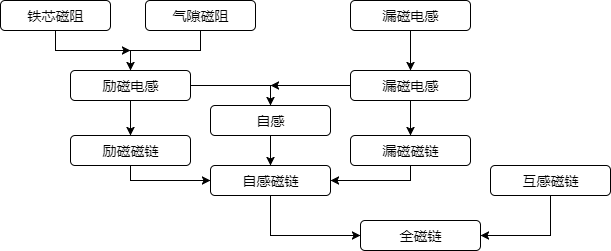
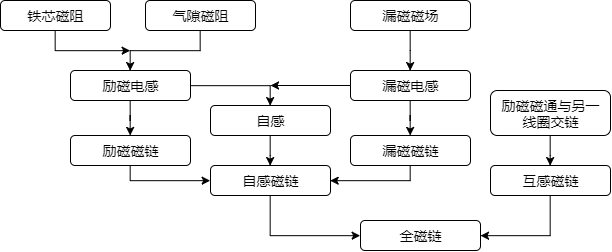
20170717 - add posts

diff --git a/source/_drafts/电机控制之电磁基础.md b/source/_drafts/电机控制之电磁基础.md
@@ -81,7 +81,7 @@ f_A &= {B_m \over {\mu}_{Fe}} l_m + {B_{\delta} \over {\mu}_0} {\delta} \\
 $$
 
 式中，${\phi}_{mA}$为铁芯磁路主磁通，$R_m = {l_m \over {\mu}_{Fe}S}$为铁芯磁路磁阻；${\phi}_{\delta}$为气隙磁通，$R_{\delta} = {\delta \over {\mu}_{0}S}$为气隙磁路磁阻。
-由于磁通的连续性，所有 ${\phi}_{mA} = {\phi}_{\delta}$，即有 $B_m = B_{\delta}$。从而 ${\eqref {1-5}}$ 可以表示为：
+由于磁通的连续性，所有 ${\phi}_{mA} = {\phi}_{\delta}$，即有 $B_m = B_{\delta}$。从而式${\eqref {1-5}}$ 可以表示为：
 
 $$
 \begin{split} 
@@ -97,7 +97,7 @@ $$
 <span id = "图1-2"></span>
 > ![图1-2 等效磁路图](1-02.png)
 
-将${\eqref {1-6}}$进行变形，得到：
+将式${\eqref {1-6}}$进行变形，得到：
 
 $$
 \begin{split} 
@@ -209,7 +209,7 @@ $$
 L_{BA} = {\psi_{mBA} \over i_A} = N_A N_B \Lambda_\delta
 {\tag {1-15}} {\label {1-15}}
 $$
-
+并且，当两绕组匝数相等时，则励磁电感与互感也相等，即 $ L_{mA} = L_{mB} = L_{AB} = L_{BA}$。
 即有线圈 $A$ 和 $B$ 的互感相等。线圈的全磁链为自感磁链和互感磁链之和，则全磁链为：
 
 $$
@@ -230,36 +230,153 @@ $$
 ---
 # 定子与转子模型
 
+## 电磁转矩和磁阻转矩
 
+将[图1-1](#图1-1)的电磁装置，只能进行电能和磁能的转换。为了将磁能转化成机械能，现在将该装电磁装置改成如[图2-1](#图2-1)所示的，具有定、转子绕组和气隙的机电装置。线圈 $B$ 嵌入转子槽中，成为转子绕组，线圈 $A$ 嵌入定子槽中，成为定子绕组。假设定、转子绕组匝数相同（$N_A = N_B$），忽略定、转子齿槽影响，且忽略定、转子铁芯磁阻，气隙是均匀的。
+
+<span id = "图2-1"></span>
+> ![图2-1 具有定、转子绕组和气隙的机电装置](2-01.png) 
+
+[图2-1](#图2-1)中，将 $s$ 定义为定子的磁场轴线，将 $r$ 定义为转子磁场轴线。定、转子间单边气隙长度度为 $g$，总气隙为 $\delta = 2g$。$\theta_r$ 为转子位置角，逆时针方向为正。因气隙均匀，故转子在旋转时，定、转子绕组励磁电感 $L_{mA}$ 和 $L_{mB}$ 保持不变，又因绕组数相同，故有 $L_{mA} = L_{mB}$。
+但此时绕组 $A$ 和 $B$ 间的互感 $L_{AB}$ 不再是常值， 而是转子位置角 $\theta_r$ 的函数，即有：
+
+$$
+L_{AB}(\theta_r) = L_{BA}(\theta_r) = M_{AB}cos(\theta_r)
+{\tag {2-1}} {\label {2-1}}
+$$
+
+式中，$M_{AB}$ 为互感最大值。
+当 $s$ 轴与 $r$ 轴一致时，互感 $M_{AB}$ 达到最大值，此时绕组 $A$ 与绕组 $B$处理全耦合状态，励磁磁通 $\phi_{mB}$ 全部与线圈 $A$ 交链（$L_{AB} = L_{mB}$），同样励磁磁通 $\phi_{mA}$ 也全部也线圈 $B$ 全部交链（$L_{BA} = L_{mA}$），故有下式恒成立：
+
+$$
+L_{mA} = L_{mB} = L_{AB}(0) = L_{BA}(0) = M_{AB} cos(0) = M_{AB}
+{\tag {2-2}} {\label {2-2}}
+$$
+
+
+ - 电磁转矩
+
+如[图2-2](#图2-2)所示，$B_{mA}(\theta_s)$ 是定子绕组 $A$ 在气隙中建立的径向励磁磁场，为正弦分布。
+
+<span id = "图2-2"></span>
+> ![图2-2 定子绕组建立的径励磁磁场](2-02.png) 
+
+根据安培力“Bli”观点，线圈边 $B$ 和 $B'$ 所受电磁大小相等，所产生的力矩方向相同，则电磁转矩为：
+
+$$
+t_e = N_B i_B l_r B_{mAmax} sin{\theta_r} \cdot D_r
+{\tag {2-3}} {\label {2-3}}
+$$
+
+式中， $D_r$ 为转子外径。
+由于定子绕组的励磁磁通表达示，以及定子绕组的励磁磁链表过式分别为：
+
+$$
+\begin{split} 
+\phi_{mA} &= B_{mAmax}*S = B_{mAmax} l_r D_r \\
+\phi_{mA} &= {\psi_{mA} \over N_A} == {L_{mA} i_A \over N_A}
+\end{split} 
+$$
+
+通过上述2个式子和式$\eqref {2-2}$进行简单变形可以得到：
+
+$$
+l_r B_{mAmax} \cdot D_r = {L_{mA} i_A \over N_A} = {M_{AB} i_A \over N_B}
+{\tag {2-4}} {\label {2-4}}
+$$
+
+将式 $\eqref {2-4}$ 代入式 $\eqref {2-3}$可以电磁转矩表达示为：
+
+$$
+t_e = i_A i_B M_{AB} sin(\theta_r)
+{\tag {2-5}} {\label {2-5}}
+$$
+
+将式 $\eqref {2-5}$ 改写为：
+
+$$
+t_e = {1 \over L_m}(L_m i_A) (L_m i_B) sin(\theta_r) = {1 \over L_m} \psi_{mA} \psi_{mB} sin(\theta_r) 
+{\tag {2-6}} {\label {2-6}}
+$$
+
+式中，$L_m = M_{AB} = L_{mA} = L_{mB}$，$\psi_{mA}$ 和 $\psi_{mB}$ 分别为绕组 $A$ 和 $B$ 自身产生的励磁磁链。通过此式分析，**可以认为电磁转矩是定、转子正弦分布径向励磁磁场相互作用的结果**。
+将式 $\eqref {2-6}$ 进一步改写为：
+
+$$
+t_e = \psi_{mA} i_B sin(\theta_r) 
+{\tag {2-7}} {\label {2-7}}
+$$
+
+此式在形式反映了，载流导体在磁场会受到电磁转力的作用。
+
+
+ - 磁阻转矩
+
+[图2-1](#图2-1)中气隙是均匀的，其转子是隐极式结构。而转子是凸极式结构时，气隙就不是均匀的，如[图2-3](#图2-3)所示，图中只画出了定子铁芯的部磁路，且转子铁芯上没有安装绕组，气隙磁场仅由定子绕组产生。
+
+<span id = "图2-3"></span>
+> ![图2-3 磁阻转矩生成（点击图片查看原图）](2-03.png) 
+
+在[图2-3 a](#图2-3)中，$\theta_r = 0^\circ$，转子 $d$ 轴与定子绕组 $s$ 轴重合，将转子在位置时，**定子绕组**的自感定义为定子直轴电感 $L_d$，此时气隙最小，气隙磁导最大。
+在[图2-3 c](#图2-3)中，$\theta_r = 90^\circ$，转子 $q$ 轴与定子绕组 $s$ 轴重合，将转子在此位置时，**定子绕组**的自感定义为定子交轴电感 $L_d$，此时气隙最大，气隙磁导最小。
+通过上述说明， 可以知道，转子在旋转的过程中，定子绕组自感 $L_A$ 在 $L_d$ 和 $L_q$ 变化。此时磁阻转矩（推导过程略）为：
+
+$$
+t_e = -{\frac 1 2} (L_d - L_q) i_A^2 sin2\theta_r
+{\tag {2-8}} {\label {2-8}}
+$$
+式中，因为 $L_d > L_q$，故磁阻方向与转子旋转方向相反。
+
+
+## 电磁转矩的控制
+
+
+根据动力学原理，可列出电动机拖动系统的运动方程为：
+
+$$
+t_e = J {d\Omega_r \over dt} + R_\Omega \Omega_r + t_L
+{\tag {2-9}} {\label {2-9}}
+$$
+
+式中，$t_e$ 为电磁转矩，$t_L$负载转矩，包括了空载转矩，$\Omega_r$为转子机械角速度，$R_\Omega$ 为阻尼系数。
+由于转子机械角速度有：
+
+$$
+{d\theta_\Omega \over dt} = \Omega_r
+$$
+
+式中，$\theta_\Omega$ 为转子旋转角度（机械角度），可将式 $\eqref {2-9}$ 写成：
+
+$$
+t_e = J {d^2\theta_\Omega \over dt^2} + R_\Omega {d\theta_\Omega \over dt} + t_L
+{\tag {2-10}} {\label {2-10}}
+$$
+
+由此可以看出，对电动机转子位置的控制只能通过控制制动转矩 $(t_e - t_L)$ 来实现。也可以说，**对电动机的各种控制，归根结底是对电磁转矩的控制**。
 
 
 ---
 # 电机模型
 
+由于[图2-1](#图2-1)所示的机电装置，在机械能、电能和磁能间的转换原理具有一般性，故由此得出的电磁转矩和磁阻转矩，对于直流电机、同步电机和感应电机均适用。
+
 ## 直流电机
+
+[图3-1](#图3-1)实际两极直流电机的示意图，与[图2-1](#图2-1)对比，绕组 $A$ 成为了定子励磁绕组，励磁电流 $i_f$ 为直流（这里设其在气隙中产生的径向励磁场为正弦分布），形成了主磁极 $N$ 极和 $S$ 极，且其直轴和交轴（$dq$轴）如图所示；将绕组 $B$ 分解成多个线圈且均匀分布于转子槽中，构成电枢绕组，通过换向器和放在中性线的电刷，可以使旋转的电枢绕组，产生固定不动的磁场。
+
+<span id = "图3-1"></span>
+> ![图3-1 两极直流电机示意图](3-01.png) 
+
+电枢绕组又称为换向器绕组，具有如下特征：电枢绕组是旋转的，在电刷和换向器的作用下，在整体效果上，其产生的磁场轴线在空间位置上是固定不动的。
+
+
+<span id = "图3-2"></span>
+> ![图3-2 等效效果图](3-02.png) 
 
 
 ## 同步电机
 
 
-## 异步电机
+## 感应电机
 
-
-
----
-# 空间矢量
- 
- 新开一篇（电机控制之空间矢量）
-
- 新开一篇（电机控制之永磁同步电机矢量控制）
-
-同步电机机械角速度
-
-$$
-{\Omega} = {2{\pi}f_s \over p_0}
-$$
-
-可以通过改变定子电压频率来调节电机转速，这是同步电机他控式变频调速的基本原理。
-
-传统开环变频调速中采用的是他控式控制方式，只能控制电枢反应磁场自身的幅值和旋转速度，不能控制beta角，实质是一种标量控制，这是它与矢量控制的根本差别。
 

diff --git a/source/_drafts/电机控制之空间矢量.md b/source/_drafts/电机控制之空间矢量.md
@@ -1,0 +1,31 @@
+---
+title: 电机控制之空间矢量
+categories:
+  - 极文
+mathjax: true
+date: 2017-07-16 23:27:43
+tags:
+ - 电机控制
+---
+
+<!-- more -->
+
+
+
+---
+# 空间矢量
+ 
+ 新开一篇（电机控制之空间矢量）
+
+ 新开一篇（电机控制之永磁同步电机矢量控制）
+
+同步电机机械角速度
+
+$$
+{\Omega} = {2{\pi}f_s \over p_0}
+$$
+
+可以通过改变定子电压频率来调节电机转速，这是同步电机他控式变频调速的基本原理。
+
+传统开环变频调速中采用的是他控式控制方式，只能控制电枢反应磁场自身的幅值和旋转速度，不能控制beta角，实质是一种标量控制，这是它与矢量控制的根本差别。
+

diff --git a/source/_drafts/电机控制之滑模控制.md b/source/_drafts/电机控制之滑模控制.md
@@ -3,7 +3,7 @@ title: 电机控制之滑模控制
 categories:
   - 极文
 mathjax: true
-date: 2017-07-11 13:42:42
+date: 2017-07-17 23:27:43
 tags: 
  - 自动控制
 ---
